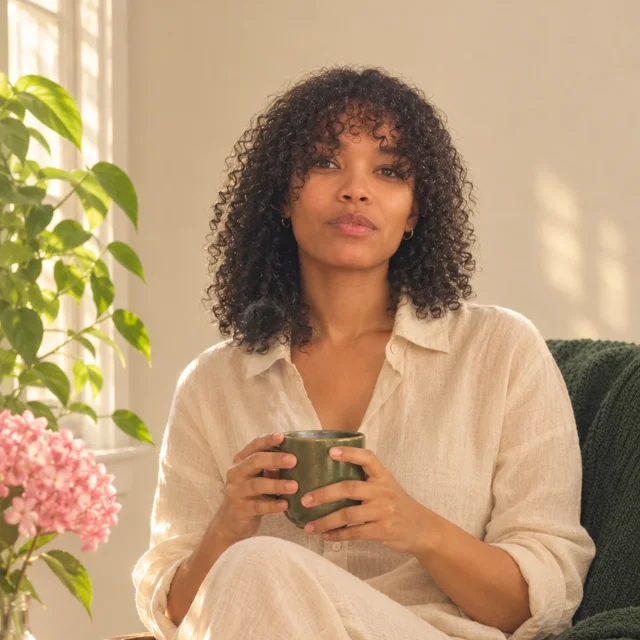
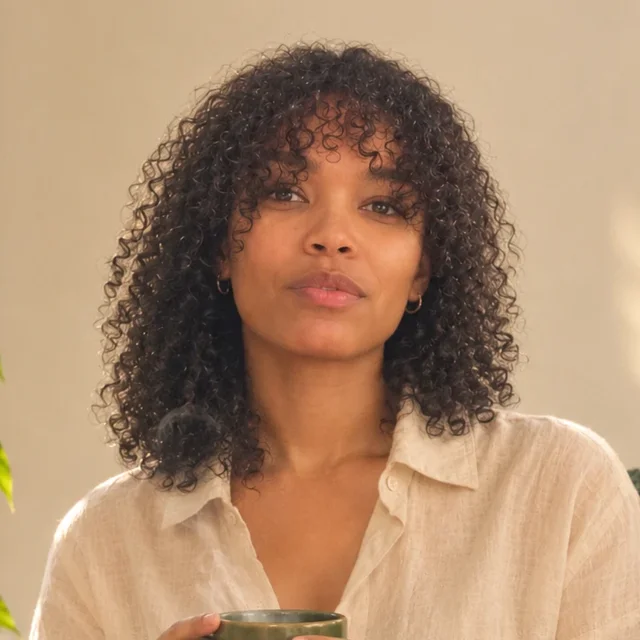
Accueil : portrait plus grand, recadré sur le visage ; livre : couverture avec photo possible (book/src/images/couverture/)
Claude-Session: https://claude.ai/code/session_012kkxSgij4LpUVXhidejTrb

diff --git a/book/styles/livre.css b/book/styles/livre.css
@@ -59,6 +59,14 @@ h2 + *, h3 + *, .encadre-titre + * { break-before: avoid; }
 .couverture .signature { font-family: var(--font-family-display); font-size: 17pt; font-style: italic; color: var(--semantic-accent); }
 .couverture .filet { width: 18mm; height: 1.4pt; background: var(--semantic-accent); margin: 8mm 0; }
 
+/* Couverture avec photo : photo en haut, fondue dans le vert ; logo par-dessus, titre en bas. */
+.couverture--photo { position: relative; overflow: hidden; padding-top: 20mm; }
+.couverture--photo > * { position: relative; z-index: 1; }
+.couverture--photo .cv-photo { position: absolute; inset: 62mm 0 auto 0; height: 168mm; margin: 0; z-index: 0; }
+.mobile .couverture--photo .cv-photo { inset: 34mm 0 auto 0; height: 100mm; }
+.couverture--photo .cv-photo img { width: 100%; height: 100%; object-fit: cover; display: block; }
+.couverture--photo .cv-photo::after { content: ''; position: absolute; inset: 0; background: linear-gradient(180deg, var(--semantic-bg-deep) 0%, rgb(18 34 25 / 0) 22%, rgb(18 34 25 / 0) 55%, var(--semantic-bg-deep-intense) 100%); }
+
 /* --- Pages liminaires ---------------------------------------------------- */
 .liminaire { break-after: page; }
 .liminaire h2 { margin-top: 0; margin-bottom: 3mm; }
